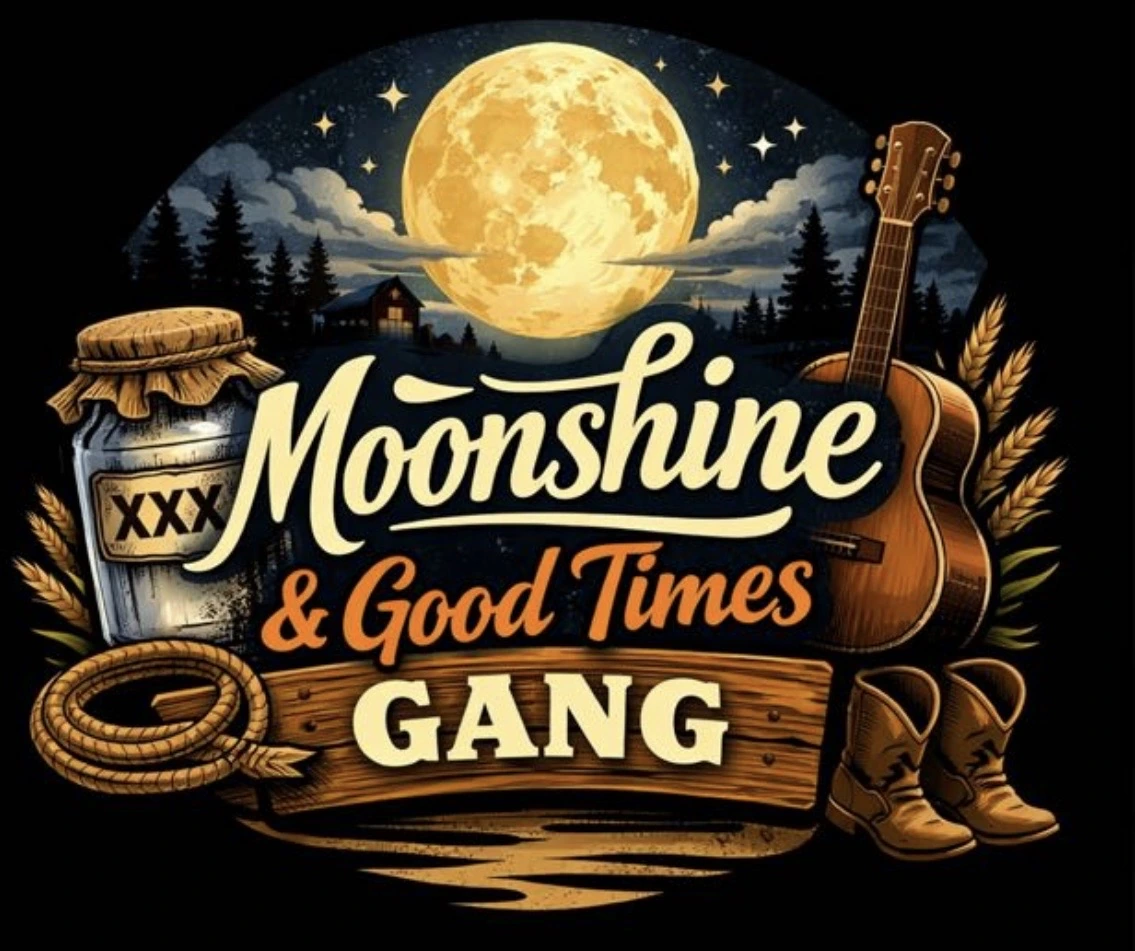
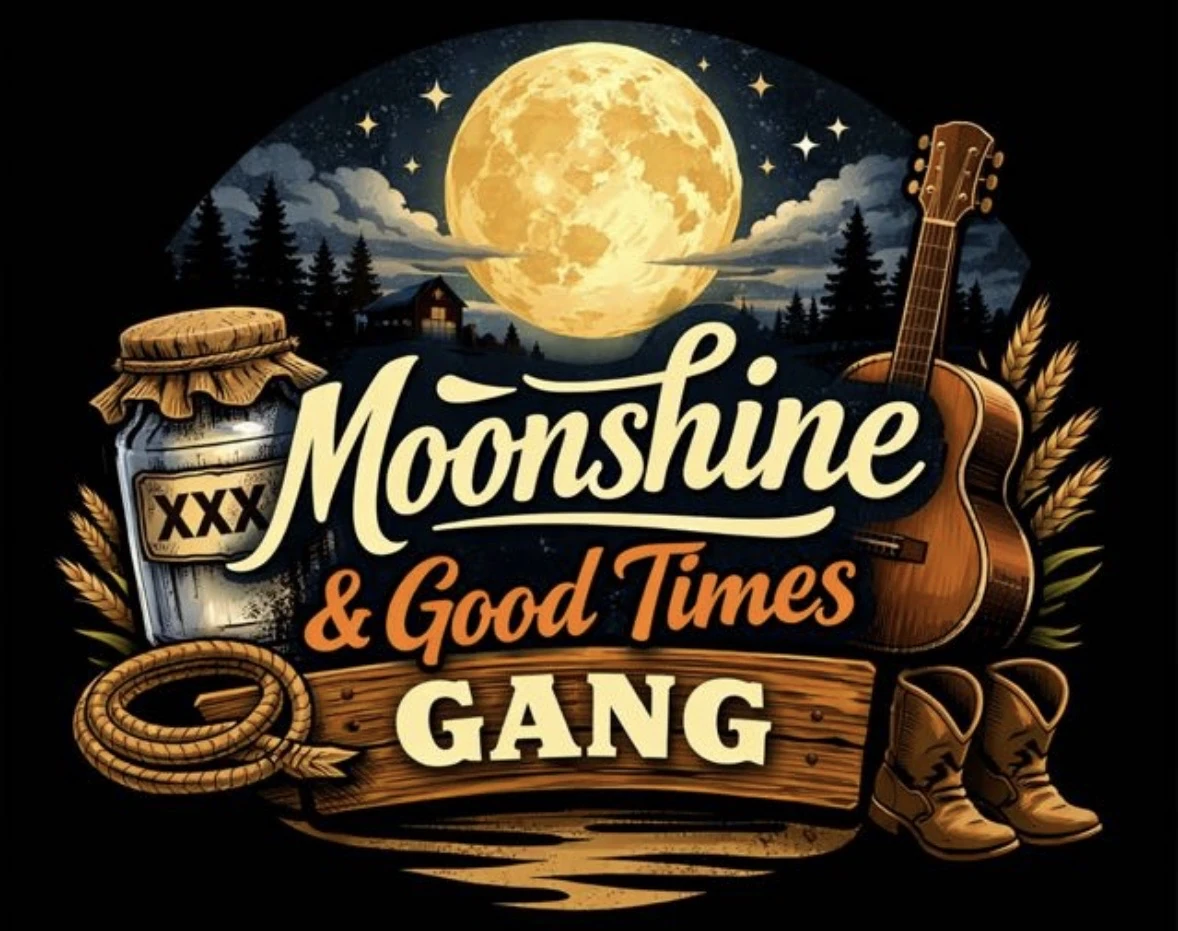
Add files via upload

diff --git a/styles.css b/styles.css
@@ -7938,3 +7938,20 @@ body:not(.ranch-v91):not(.admin-login-body) :is(
 
 /* red accents instead of tan/gold badges */
 body:not(.ranch-v91):not(.admin-login-body) :is(.level-absolute-beginner,.level-beginner,.level-improver,.level-original){background:#241012!important;color:#ff666d!important;border-color:#8e3036!important}
+
+
+/* v96.4.54 targeted menu / festival / Moonshine polish */
+.moonshine-logo-wrap{width:min(760px,92vw);margin:0 auto 1.5rem;display:flex;justify-content:center}
+.moonshine-main-logo{display:block;width:100%;height:auto;max-height:560px;object-fit:contain;border:0;background:#000}
+@media(max-width:560px){
+  .festival-hub-card{padding:1.35rem 1.15rem}
+  .festival-hub-card>div:not(.festival-card-number){padding-right:3.25rem}
+  .festival-card-number{
+    right:.8rem;top:.85rem;font-size:2rem;line-height:1;opacity:.72;
+    width:2.5rem;max-width:2.5rem;text-align:right;overflow:hidden
+  }
+  .festival-hub-card h2,.festival-hub-card h3{
+    max-width:calc(100% - 3rem);overflow-wrap:anywhere
+  }
+  .moonshine-logo-wrap{width:min(94vw,680px);margin-bottom:1rem}
+}

diff --git a/about.html b/about.html
@@ -198,7 +198,6 @@
               <a href="passport.html#trail-preview"><span>My Passport</span><b aria-hidden="true">›</b></a>
               <a href="journey.html"><span>My Journey</span><b aria-hidden="true">›</b></a>
               <a href="rewards.html"><span>Trail Outfitters & Rewards</span><b aria-hidden="true">›</b></a>
-              <a href="moonshine.html"><span>Moonshine Lounge</span><b aria-hidden="true">›</b></a>
             </div>
           </details>
 

diff --git a/ask-nora.html b/ask-nora.html
@@ -182,7 +182,6 @@
               <a href="passport.html#trail-preview"><span>My Passport</span><b aria-hidden="true">›</b></a>
               <a href="journey.html"><span>My Journey</span><b aria-hidden="true">›</b></a>
               <a href="rewards.html"><span>Trail Outfitters & Rewards</span><b aria-hidden="true">›</b></a>
-              <a href="moonshine.html"><span>Moonshine Lounge</span><b aria-hidden="true">›</b></a>
             </div>
           </details>
 

diff --git a/bookings.html b/bookings.html
@@ -110,7 +110,6 @@
               <a href="passport.html#trail-preview"><span>My Passport</span><b aria-hidden="true">›</b></a>
               <a href="journey.html"><span>My Journey</span><b aria-hidden="true">›</b></a>
               <a href="rewards.html"><span>Trail Outfitters & Rewards</span><b aria-hidden="true">›</b></a>
-              <a href="moonshine.html"><span>Moonshine Lounge</span><b aria-hidden="true">›</b></a>
             </div>
           </details>
 

diff --git a/businesses.html b/businesses.html
@@ -190,7 +190,6 @@
               <a href="passport.html#trail-preview"><span>My Passport</span><b aria-hidden="true">›</b></a>
               <a href="journey.html"><span>My Journey</span><b aria-hidden="true">›</b></a>
               <a href="rewards.html"><span>Trail Outfitters & Rewards</span><b aria-hidden="true">›</b></a>
-              <a href="moonshine.html"><span>Moonshine Lounge</span><b aria-hidden="true">›</b></a>
             </div>
           </details>
 

diff --git a/calendar.html b/calendar.html
@@ -198,7 +198,6 @@
               <a href="passport.html#trail-preview"><span>My Passport</span><b aria-hidden="true">›</b></a>
               <a href="journey.html"><span>My Journey</span><b aria-hidden="true">›</b></a>
               <a href="rewards.html"><span>Trail Outfitters & Rewards</span><b aria-hidden="true">›</b></a>
-              <a href="moonshine.html"><span>Moonshine Lounge</span><b aria-hidden="true">›</b></a>
             </div>
           </details>
 

diff --git a/country-corner.html b/country-corner.html
@@ -195,7 +195,6 @@
               <a href="passport.html#trail-preview"><span>My Passport</span><b aria-hidden="true">›</b></a>
               <a href="journey.html"><span>My Journey</span><b aria-hidden="true">›</b></a>
               <a href="rewards.html"><span>Trail Outfitters & Rewards</span><b aria-hidden="true">›</b></a>
-              <a href="moonshine.html"><span>Moonshine Lounge</span><b aria-hidden="true">›</b></a>
             </div>
           </details>
 

diff --git a/country-guide-adventures.html b/country-guide-adventures.html
@@ -195,7 +195,6 @@
               <a href="passport.html#trail-preview"><span>My Passport</span><b aria-hidden="true">›</b></a>
               <a href="journey.html"><span>My Journey</span><b aria-hidden="true">›</b></a>
               <a href="rewards.html"><span>Trail Outfitters & Rewards</span><b aria-hidden="true">›</b></a>
-              <a href="moonshine.html"><span>Moonshine Lounge</span><b aria-hidden="true">›</b></a>
             </div>
           </details>
 

diff --git a/country-guide-fashion.html b/country-guide-fashion.html
@@ -195,7 +195,6 @@
               <a href="passport.html#trail-preview"><span>My Passport</span><b aria-hidden="true">›</b></a>
               <a href="journey.html"><span>My Journey</span><b aria-hidden="true">›</b></a>
               <a href="rewards.html"><span>Trail Outfitters & Rewards</span><b aria-hidden="true">›</b></a>
-              <a href="moonshine.html"><span>Moonshine Lounge</span><b aria-hidden="true">›</b></a>
             </div>
           </details>
 

diff --git a/country-guide-festivals.html b/country-guide-festivals.html
@@ -195,7 +195,6 @@
               <a href="passport.html#trail-preview"><span>My Passport</span><b aria-hidden="true">›</b></a>
               <a href="journey.html"><span>My Journey</span><b aria-hidden="true">›</b></a>
               <a href="rewards.html"><span>Trail Outfitters & Rewards</span><b aria-hidden="true">›</b></a>
-              <a href="moonshine.html"><span>Moonshine Lounge</span><b aria-hidden="true">›</b></a>
             </div>
           </details>
 

diff --git a/country-guide-food-drink.html b/country-guide-food-drink.html
@@ -195,7 +195,6 @@
               <a href="passport.html#trail-preview"><span>My Passport</span><b aria-hidden="true">›</b></a>
               <a href="journey.html"><span>My Journey</span><b aria-hidden="true">›</b></a>
               <a href="rewards.html"><span>Trail Outfitters & Rewards</span><b aria-hidden="true">›</b></a>
-              <a href="moonshine.html"><span>Moonshine Lounge</span><b aria-hidden="true">›</b></a>
             </div>
           </details>
 

diff --git a/country-guide-inspirations.html b/country-guide-inspirations.html
@@ -195,7 +195,6 @@
               <a href="passport.html#trail-preview"><span>My Passport</span><b aria-hidden="true">›</b></a>
               <a href="journey.html"><span>My Journey</span><b aria-hidden="true">›</b></a>
               <a href="rewards.html"><span>Trail Outfitters & Rewards</span><b aria-hidden="true">›</b></a>
-              <a href="moonshine.html"><span>Moonshine Lounge</span><b aria-hidden="true">›</b></a>
             </div>
           </details>
 
